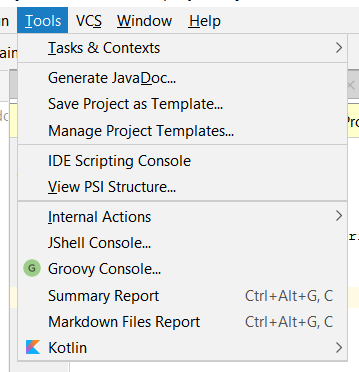
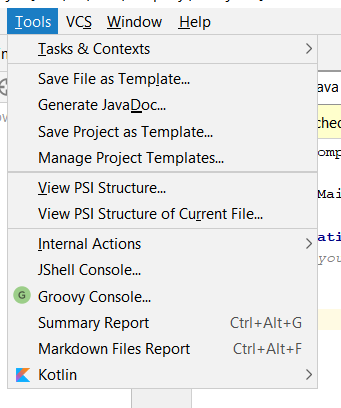
Update README.md

Changed region(s): [[0.0, 0.0, 1.0, 1.0], [0.9677, 0.7392, 1.0, 0.828]]

diff --git a/README.md b/README.md
@@ -29,7 +29,7 @@ click on `Markdown Files Report` or optionally use `Ctrl+Alt+F` shortcut <br/><b
 
 ## Methods Plugin
 In order to activate methods plugin go to tools menu
-click on `Summary Report` or optionally use `Ctrl+Alt+F` shortcut <br/><br/>
+click on `Summary Report` or optionally use `Ctrl+Alt+G` shortcut <br/><br/>
 ![Image of Tools Menu](images/image1.png)<br/>
 
 - In run tool window when you click on `Statistics`, it shows the statistics for the current open java file<br/><br/>
